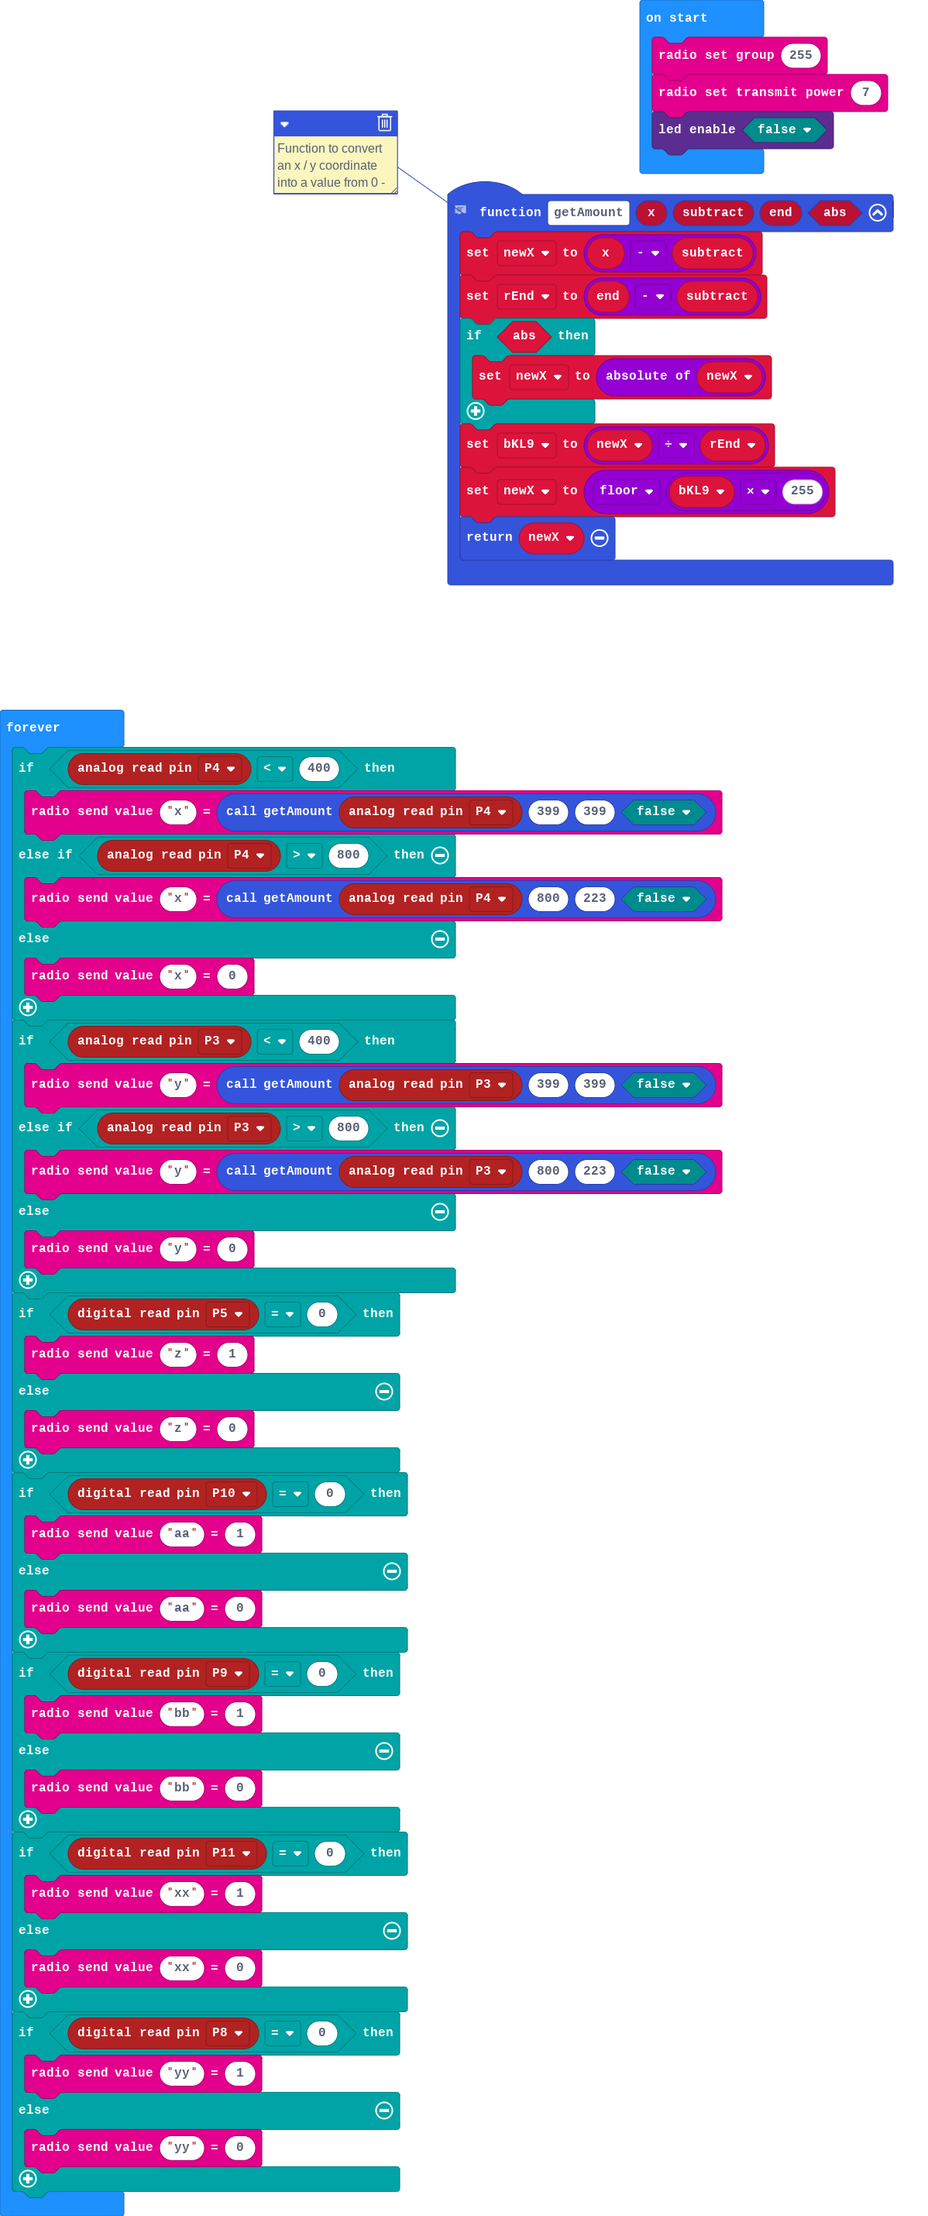
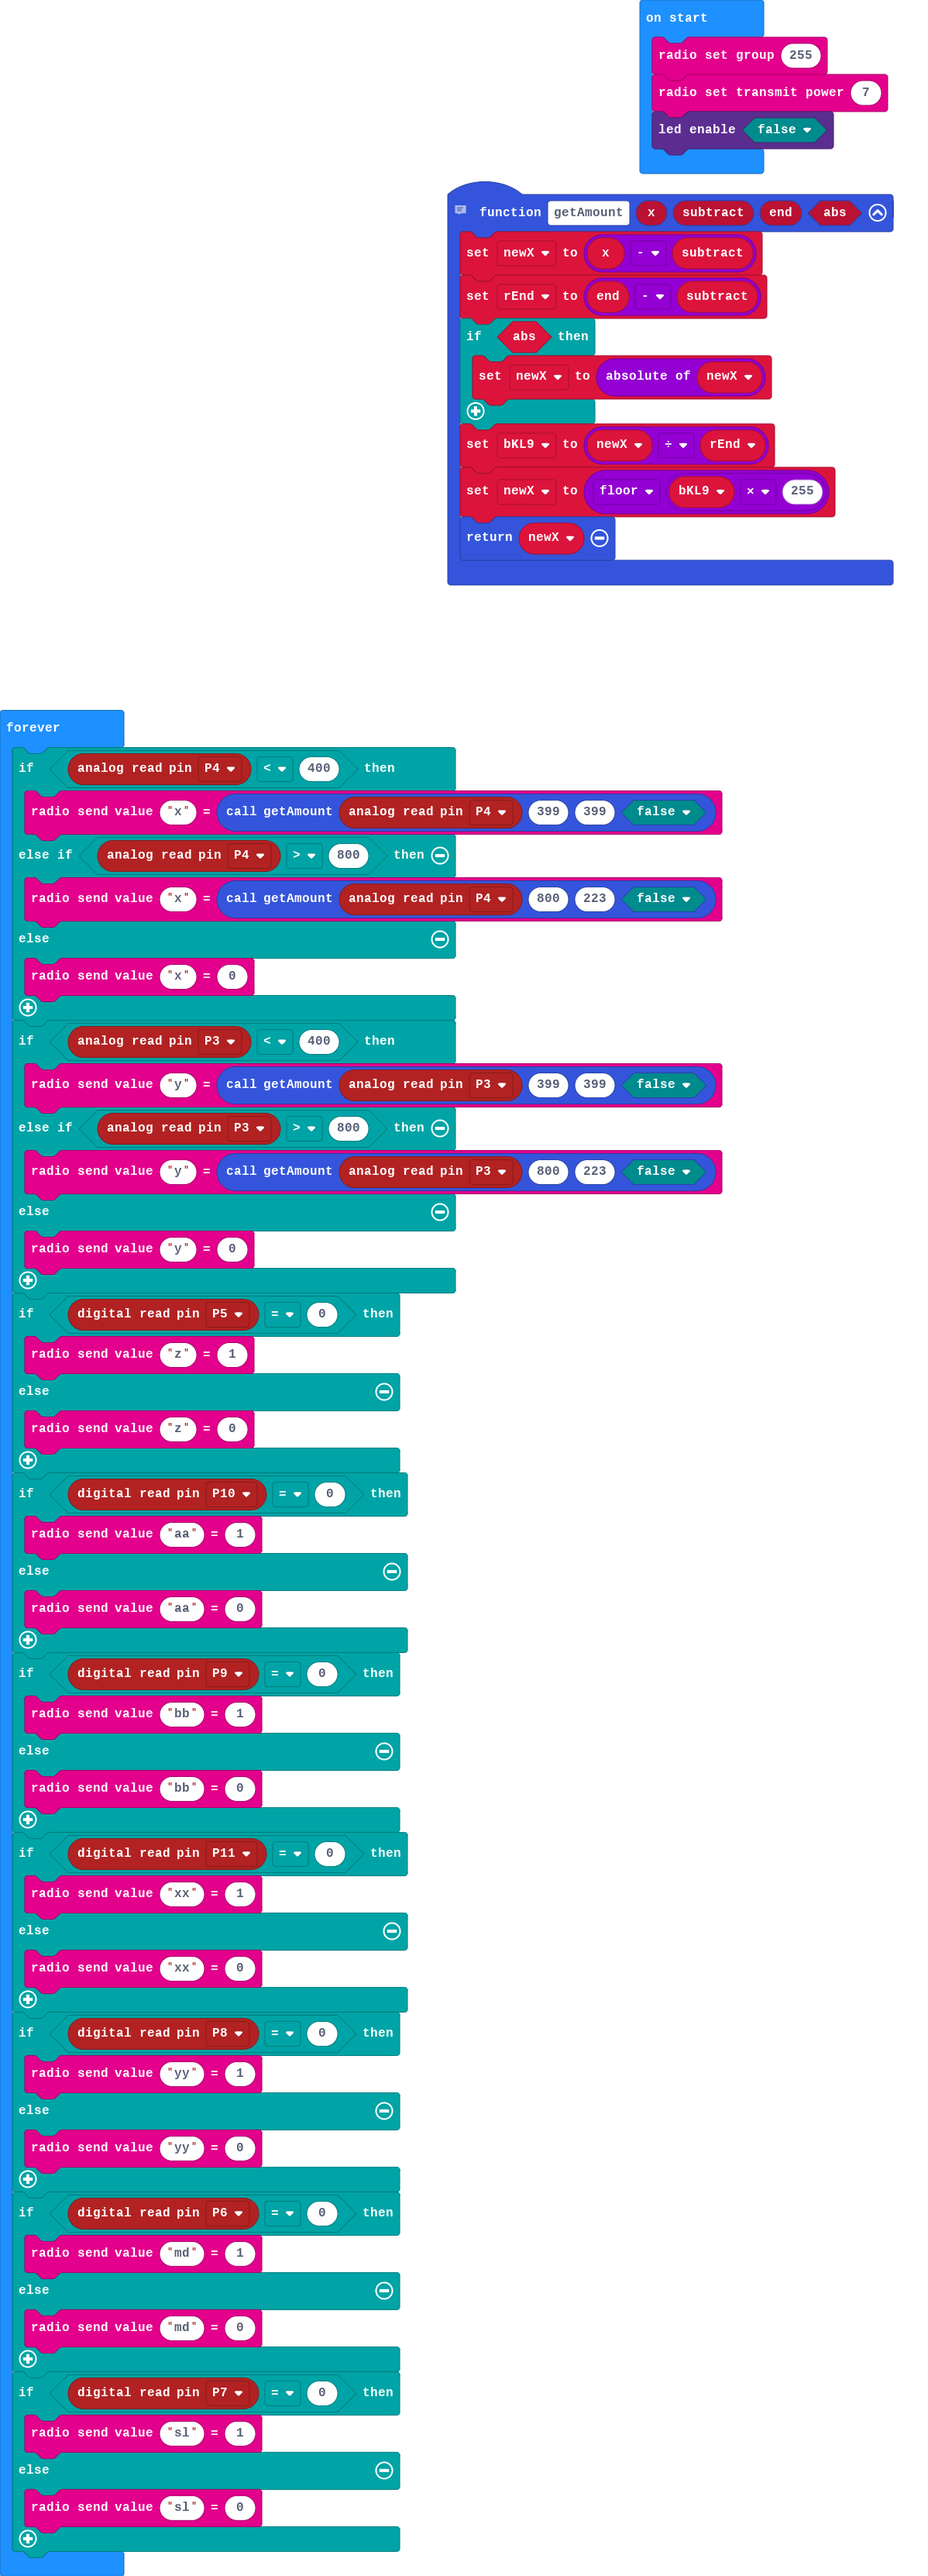
Update main.blocks, main.ts

diff --git a/main.ts b/main.ts
@@ -55,4 +55,14 @@ basic.forever(function () {
     } else {
         radio.sendValue("yy", 0)
     }
+    if (pins.digitalReadPin(DigitalPin.P6) == 0) {
+        radio.sendValue("md", 1)
+    } else {
+        radio.sendValue("md", 0)
+    }
+    if (pins.digitalReadPin(DigitalPin.P7) == 0) {
+        radio.sendValue("sl", 1)
+    } else {
+        radio.sendValue("sl", 0)
+    }
 })
